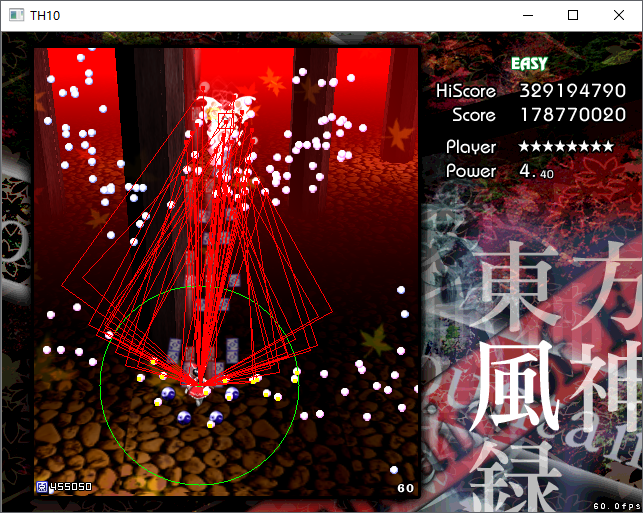
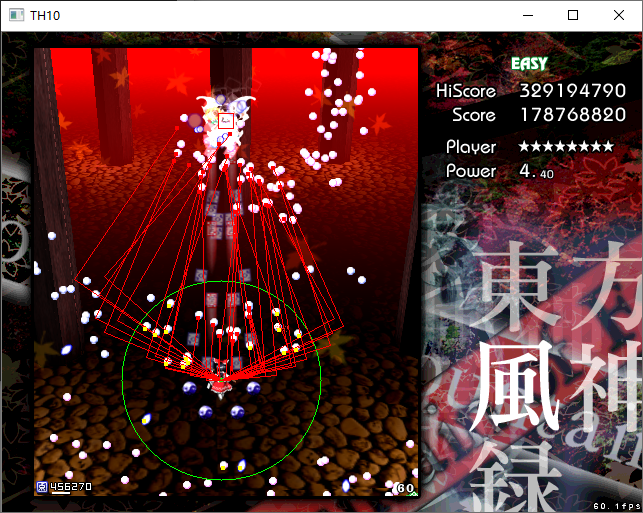
细节调整

diff --git a/TH10Bot/src/TH10Bot/TH10Bot.cpp b/TH10Bot/src/TH10Bot/TH10Bot.cpp
@@ -132,7 +132,7 @@ namespace th
 			Pointi p1 = Scene::ToWindowPos(m_player.getCenter());
 			Pointi p2 = Scene::ToWindowPos(bullet.getCenter());
 			Pointi p3 = Scene::ToWindowPos(footPoint);
-			cv::line(m_image.m_data, cv::Point(p1.x, p1.y), cv::Point(p2.x, p2.y), color3);
+			//cv::line(m_image.m_data, cv::Point(p1.x, p1.y), cv::Point(p2.x, p2.y), color3);
 			cv::line(m_image.m_data, cv::Point(p1.x, p1.y), cv::Point(p3.x, p3.y), color3);
 			cv::line(m_image.m_data, cv::Point(p2.x, p2.y), cv::Point(p3.x, p3.y), color3);
 		}
